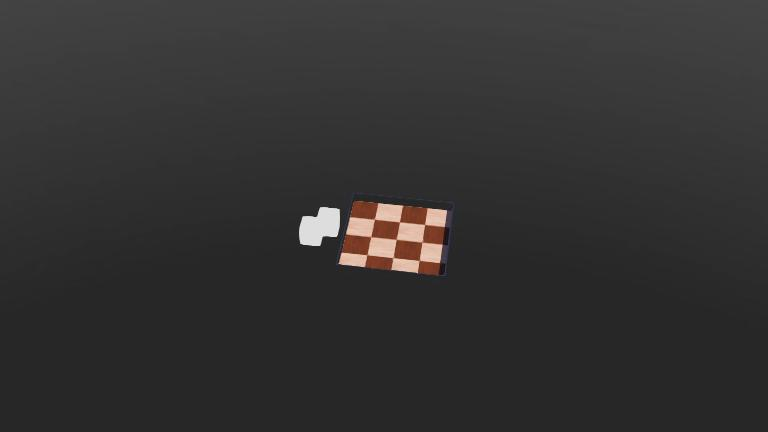
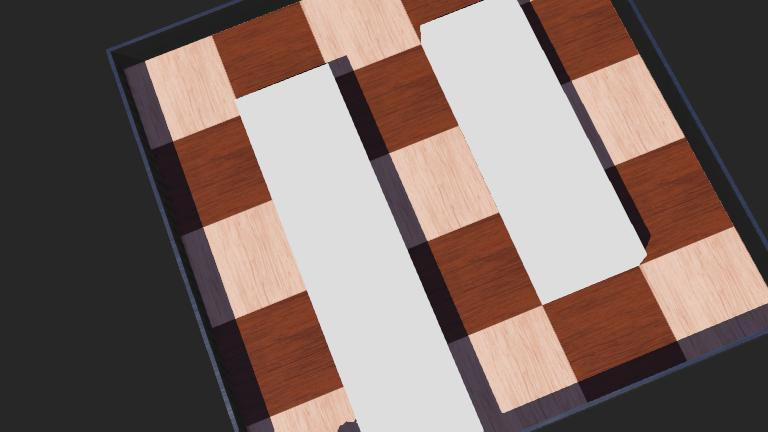
feat: update

diff --git a/Bab-04_WeBots/latihan_01/controllers/controller_robot_sensor_4/controller_robot_sensor_4.c b/Bab-04_WeBots/latihan_01/controllers/controller_robot_sensor_4/controller_robot_sensor_4.c
@@ -1,135 +1,158 @@
 /*
  * File:          controller_robot_sensor_4.c
- * Date:
- * Description:
- * Author:
- * Modifications:
+ * Description:   Controller Robot Sensor 4:
+ *                - Mode Default: LURUS BLAS (MAX_SPEED, MAX_SPEED), kedua motor sama persis tanpa ngelengkung.
+ *                - Koreksi Posisi:
+ *                  * Jika ps2 terlalu dekat tembok kanan (> 165) -> serong kiri sebentar sampai aman, lalu LURUS BLAS.
+ *                  * Jika ps2 terlalu jauh dari tembok kanan (< 68) -> serong kanan mendekat tembok sampai pas, lalu LURUS BLAS.
+ *                - Belok Kanan: Jika tembok kanan sudah habis (ps2 < 45) -> belok kanan mengitari sudut.
+ *                - Belok Kiri: Jika ada tembok di depan (ps0 / ps7 > 90) -> belok kiri menghindar.
  */
 
-/*
- * You may need to add include files like <webots/distance_sensor.h> or
- * <webots/motor.h>, etc.
- */
 #include <webots/robot.h>
 #include <webots/motor.h>
 #include <webots/distance_sensor.h>
 #include <stdio.h>
 #include <stdbool.h>
 
-/*
- * You may want to add macros here.
- */
 #define TIME_STEP 64
 #define MAX_SPEED 6.28
-#define OBSTACLE_THRESHOLD 80.0 // Nilai sensor jarak saat mendekati tembok (standar Webots E-puck)
-
-#define SPEED_TURN (0.5 * MAX_SPEED)
-#define SPEED_FORWARD (MAX_SPEED)
-
-// Durasi belok kiri dalam detik untuk putaran ~90 derajat
-// (Perhitungan: 2.0 detik menghasilkan 225 derajat, maka 90/225 * 2.0 = 0.8 detik)
-#define TURN_LEFT_DURATION 0.71
 
 /*
- * Fungsi pembantu untuk mengatur kecepatan motor kiri dan kanan
+ * Status / Mode Robot
+ */
+typedef enum {
+  MODE_LURUS,          // LURUS BLAS (kiri = MAX_SPEED, kanan = MAX_SPEED)
+  MODE_KOREKSI_KIRI,   // Terlalu nempel tembok kanan -> geser kiri sebentar
+  MODE_KOREKSI_KANAN,  // Terlalu jauh dari tembok kanan -> geser kanan mendekat
+  MODE_BELOK_KANAN,    // Tembok kanan habis -> belok kanan masuk lorong baru
+  MODE_BELOK_KIRI      // Tembok di depan mentok -> belok kiri menghindar
+} ModeRobot;
+
+/*
+ * Fungsi pembantu mengatur kecepatan kedua motor
  */
 void set_speeds(WbDeviceTag left_motor, WbDeviceTag right_motor, double left_speed, double right_speed) {
   wb_motor_set_velocity(left_motor, left_speed);
   wb_motor_set_velocity(right_motor, right_speed);
 }
 
-/*
- * Fungsi pembantu untuk menunggu selama sejumlah detik (dalam waktu simulasi Webots).
- * Mengembalikan false jika simulasi dihentikan/selesai oleh pengguna.
- */
-bool wait_seconds(double duration) {
-  double start_time = wb_robot_get_time();
-  while (wb_robot_get_time() - start_time < duration) {
-    if (wb_robot_step(TIME_STEP) == -1) {
-      return false; // Simulasi selesai atau jendela ditutup
-    }
-  }
-  return true;
-}
-
-
-/*
- * This is the main program.
- * The arguments of the main function can be specified by the
- * "controllerArgs" field of the Robot node
- */
 int main(int argc, char **argv) {
-  /* necessary to initialize webots stuff */
   wb_robot_init();
 
-  /*
-   * You should declare here WbDeviceTag variables for storing
-   * robot devices like this:
-   *  WbDeviceTag my_sensor = wb_robot_get_device("my_sensor");
-   *  WbDeviceTag my_actuator = wb_robot_get_device("my_actuator");
-   */
+  /* Device motor roda E-puck */
   WbDeviceTag kanan_actuator = wb_robot_get_device("right wheel motor");
   WbDeviceTag kiri_actuator = wb_robot_get_device("left wheel motor");
 
-  /* Inisialisasi sensor jarak ps0 (depan kanan), ps2 (samping kanan), dan ps7 (depan kiri) */
-  WbDeviceTag ps0 = wb_robot_get_device("ps0");
-  WbDeviceTag ps2 = wb_robot_get_device("ps2");
-  WbDeviceTag ps7 = wb_robot_get_device("ps7");
+  /* Device sensor jarak */
+  WbDeviceTag ps0 = wb_robot_get_device("ps0"); // Depan kanan
+  WbDeviceTag ps2 = wb_robot_get_device("ps2"); // Samping kanan (90°)
+  WbDeviceTag ps7 = wb_robot_get_device("ps7"); // Depan kiri
 
-  /* Aktifkan sensor jarak dengan sampling period TIME_STEP */
+  /* Aktifkan sensor jarak */
   wb_distance_sensor_enable(ps0, TIME_STEP);
   wb_distance_sensor_enable(ps2, TIME_STEP);
   wb_distance_sensor_enable(ps7, TIME_STEP);
 
+  /* Mode kontrol kecepatan */
   wb_motor_set_position(kanan_actuator, INFINITY);
   wb_motor_set_position(kiri_actuator, INFINITY);
 
-  /* Awal mulai: robot diam */
-  wb_motor_set_velocity(kanan_actuator, 0.0);
-  wb_motor_set_velocity(kiri_actuator, 0.0);
+  set_speeds(kiri_actuator, kanan_actuator, 0.0, 0.0);
 
-  /* main loop
-   * Perform simulation steps of TIME_STEP milliseconds
-   * and leave the loop when the simulation is over
-   */
+  ModeRobot mode = MODE_LURUS;
+  bool pernah_lihat_tembok_kanan = false;
+
+  printf("[Controller] Controller 4 Siap: LURUS BLAS!\n");
+
+  /* Simulation loop */
   while (wb_robot_step(TIME_STEP) != -1) {
-    /*
-     * 1. Read the sensors :
-     */
-    double ps0_value = wb_distance_sensor_get_value(ps0);
-    double ps2_value = wb_distance_sensor_get_value(ps2);
-    double ps7_value = wb_distance_sensor_get_value(ps7);
+    /* Baca nilai sensor */
+    double ps0_val = wb_distance_sensor_get_value(ps0);
+    double ps2_val = wb_distance_sensor_get_value(ps2);
+    double ps7_val = wb_distance_sensor_get_value(ps7);
 
-    /*
-     * 2. Process sensor data:
-     * Nilai sensor E-puck semakin besar saat mendekati objek.
-     * Jika sensor depan (ps0, ps7) atau sensor sebelah kanan (ps2) > OBSTACLE_THRESHOLD,
-     * robot mendeteksi halangan dan akan belok ke kiri untuk menghindar.
-     */
-    bool halangan_terdeteksi = (ps0_value > OBSTACLE_THRESHOLD) ||
-                               (ps7_value > OBSTACLE_THRESHOLD) ||
-                               (ps2_value > OBSTACLE_THRESHOLD);
-
-    /*
-     * 3. Send actuator commands:
-     */
-    if (halangan_terdeteksi) {
-      printf("[Sensor] Halangan terdeteksi (ps0: %.1f, ps2_kanan: %.1f, ps7: %.1f) -> Belok Kiri\n",
-             ps0_value, ps2_value, ps7_value);
-      // Belok kiri (roda kiri mundur, roda kanan maju)
-      set_speeds(kiri_actuator, kanan_actuator, -SPEED_TURN, SPEED_TURN);
-      if (!wait_seconds(TURN_LEFT_DURATION)) break;
-    } else {
-      /* Tidak ada halangan: Maju lurus */
-      wb_motor_set_velocity(kanan_actuator, SPEED_FORWARD);
-      wb_motor_set_velocity(kiri_actuator, SPEED_FORWARD);
+    // Tandai jika robot sudah pernah berada di samping tembok kanan
+    if (ps2_val > 55.0) {
+      pernah_lihat_tembok_kanan = true;
     }
-  };
 
-  /* Enter your cleanup code here */
+    /* -------------------------------------------------------------
+     * 1. CEK PRIORITAS UTAMA (TEMBOK DEPAN / TEMBOK KANAN HABIS)
+     * ------------------------------------------------------------- */
+    if (ps0_val > 90.0 || ps7_val > 90.0) {
+      mode = MODE_BELOK_KIRI;
+    } 
+    else if (pernah_lihat_tembok_kanan && ps2_val < 45.0 && mode != MODE_BELOK_KIRI) {
+      // Tembok kanan sudah habis -> Belok kanan
+      mode = MODE_BELOK_KANAN;
+    }
 
-  /* This is necessary to cleanup webots resources */
+    /* -------------------------------------------------------------
+     * 2. EKSEKUSI BERDASARKAN MODE
+     * ------------------------------------------------------------- */
+    switch (mode) {
+      /* --- KASUS A: BELOK KIRI (Mentok di depan) --- */
+      case MODE_BELOK_KIRI:
+        set_speeds(kiri_actuator, kanan_actuator, -0.4 * MAX_SPEED, 0.4 * MAX_SPEED);
+        if (ps0_val < 65.0 && ps7_val < 65.0) {
+          printf("[Mode] Tembok depan bebas -> Gaspol LURUS BLAS!\n");
+          mode = MODE_LURUS;
+        }
+        break;
+
+      /* --- KASUS B: BELOK KANAN (Tembok kanan habis) --- */
+      case MODE_BELOK_KANAN:
+        // Belok kanan mengitari sudut (roda kiri laju, roda kanan lambat)
+        set_speeds(kiri_actuator, kanan_actuator, MAX_SPEED, 0.15 * MAX_SPEED);
+        // Selesai belok kanan saat ps2 kembali menangkap tembok baru di kanan
+        if (ps2_val >= 70.0) {
+          printf("[Mode] Tembok baru terdeteksi di kanan (ps2: %.1f) -> Gaspol LURUS BLAS!\n", ps2_val);
+          mode = MODE_LURUS;
+        }
+        break;
+
+      /* --- KASUS C: KOREKSI KIRI (Terlalu mepet tembok kanan) --- */
+      case MODE_KOREKSI_KIRI:
+        // Serong kiri sebentar untuk menjauh
+        set_speeds(kiri_actuator, kanan_actuator, 0.6 * MAX_SPEED, MAX_SPEED);
+        if (ps2_val <= 130.0) {
+          printf("[Koreksi Selesai] Jarak aman (ps2: %.1f) -> Kembali LURUS BLAS!\n", ps2_val);
+          mode = MODE_LURUS;
+        }
+        break;
+
+      /* --- KASUS D: KOREKSI KANAN (Terlalu jauh dari tembok kanan) --- */
+      case MODE_KOREKSI_KANAN:
+        // Serong kanan sebentar untuk mendekat
+        set_speeds(kiri_actuator, kanan_actuator, MAX_SPEED, 0.6 * MAX_SPEED);
+        if (ps2_val >= 85.0) {
+          printf("[Koreksi Selesai] Sudah pas (ps2: %.1f) -> Kembali LURUS BLAS!\n", ps2_val);
+          mode = MODE_LURUS;
+        }
+        break;
+
+      /* --- KASUS E: MODE LURUS (LURUS BLAS, NO BELOK-BELOK, NO NGELENGKUNG) --- */
+      case MODE_LURUS:
+      default:
+        if (ps2_val > 165.0) {
+          // Terlalu mepet ke tembok kanan -> Masuk mode koreksi kiri
+          printf("[Koreksi] Mepet kanan (ps2: %.1f) -> Serong kiri sebentar...\n", ps2_val);
+          mode = MODE_KOREKSI_KIRI;
+        } 
+        else if (pernah_lihat_tembok_kanan && ps2_val < 68.0 && ps2_val >= 45.0) {
+          // Terlalu jauh dari tembok kanan -> Masuk mode koreksi kanan
+          printf("[Koreksi] Terlalu jauh (ps2: %.1f) -> Serong kanan mendekat...\n", ps2_val);
+          mode = MODE_KOREKSI_KANAN;
+        } 
+        else {
+          // 100% LURUS BLAS! Kedua roda kecepatannya SAMA PERSIS!
+          set_speeds(kiri_actuator, kanan_actuator, MAX_SPEED, MAX_SPEED);
+        }
+        break;
+    }
+  }
+
   wb_robot_cleanup();
-
   return 0;
 }

diff --git a/DANISH_AI_AGENT.md b/DANISH_AI_AGENT.md
@@ -33,9 +33,12 @@ Coursework repository for Robotics Simulation (Simulasi Robotika TI-3A), contain
 
 ## Known gotchas
 - Arduino Uno pins 12 & 13 do NOT support hardware PWM; software PWM via `micros()` is required (see Bab-01 Program 09).
-- `controller_robot_sensor.c` stops near walls; `controller_robot_sensor_3.c` avoids obstacles by turning left when front (ps0, ps7) or right-side (ps2) detects walls.
+- `controller_robot_sensor_4.c` implements pure straight driving (`MAX_SPEED, MAX_SPEED`) without curving, discrete ps2 alignment, and right turns when the wall ends.
 
 ## Changelog (newest first, 1 line per entry, NOT a diff)
+- 2026-10-09: Implemented pure straight driving (no curving), discrete ps2 corrections, and right turn when wall ends in controller_robot_sensor_4.c.
+- 2026-10-09: Overhauled controller_robot_sensor_4 with full-speed straight driving and deadband straightening.
+- 2026-10-09: Implemented sensor-driven wall following and corner turning in controller_robot_sensor_4.c.
 - 2026-10-09: Updated controller_robot_sensor_3 with right-side sensor ps2 and left-turn avoidance logic.
 - 2026-10-09: Added obstacle stop logic (OBSTACLE_THRESHOLD 80.0) in controller_robot_sensor.c.
 - 2026-10-09: Declared and enabled distance sensors ps0 & ps7 in controller_robot_sensor.c.
